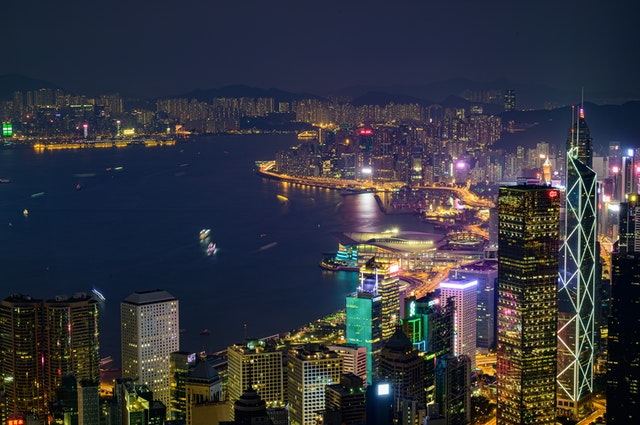
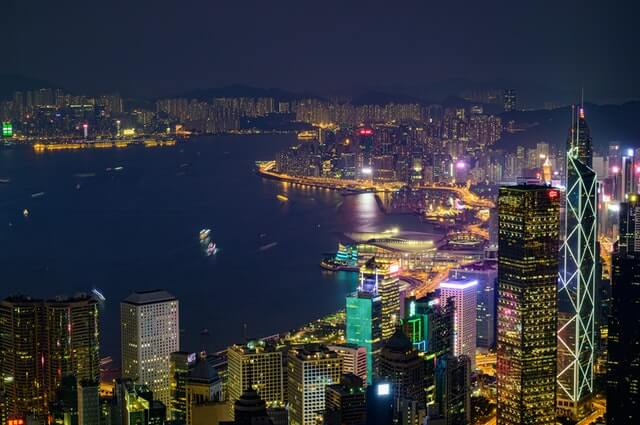
Changed background image

diff --git a/index.html b/index.html
@@ -50,6 +50,17 @@
         </div>
 
         <div class="images">
+            <div class="showcase-image">
+                <img src="static/images/image-13.jpeg">
+            </div>
+
+            <div class="title">
+                <h2><span class="first-word">Traveling</span> Around The World Without Any Frustration & Painless.</h2>
+                <p class="subtitle">No matter which part of the world you want to go, ready to help you Immerse yourself
+                    in a variety of cultures and exotic lifestyles. Plan and book your perfect trip with expert advice,
+                    travel tips, destination information.</p>
+            </div>
+
             <div id="image-1">
                 <div class="container">
                     <div class="frosted-card">
@@ -113,11 +124,9 @@
                         <div class="card-data">
                             <img src="static/images/bali-1.jpg">
                             <div class="package-info">
-                                <h3>Bali</h3>
-                                <h3>
-                                    <i class="fas fa-dollar-sign"></i>
-                                    1100
-                                </h3>
+                                <h3>Bali | <i class="fas fa-dollar-sign"></i>
+                                    1100</h3>
+                                <button type="submit">Book Now</button>
                             </div>
                         </div>
                     </div>
@@ -126,11 +135,9 @@
                         <div class="card-data">
                             <img src="static/images/thailand.jpg">
                             <div class="package-info">
-                                <h3>Pattaya</h3>
-                                <h3>
-                                    <i class="fas fa-dollar-sign"></i>
-                                    900
-                                </h3>
+                                <h3>Pattaya | <i class="fas fa-dollar-sign"></i>
+                                    900</h3>
+                                <button type="submit">Book Now</button>
                             </div>
                         </div>
                     </div>
@@ -139,11 +146,9 @@
                         <div class="card-data">
                             <img src="static/images/hong_kong.jpg">
                             <div class="package-info">
-                                <h3>Hong Kong</h3>
-                                <h3>
-                                    <i class="fas fa-dollar-sign"></i>
-                                    1700
-                                </h3>
+                                <h3>Hong Kong | <i class="fas fa-dollar-sign"></i>
+                                    1700</h3>
+                                <button type="submit">Book Now</button>
                             </div>
                         </div>
                     </div>
@@ -152,11 +157,9 @@
                         <div class="card-data">
                             <img src="static/images/venice.jpg">
                             <div class="package-info">
-                                <h3>Venice</h3>
-                                <h3>
-                                    <i class="fas fa-dollar-sign"></i>
-                                    2300
-                                </h3>
+                                <h3>Venice | <i class="fas fa-dollar-sign"></i>
+                                    2300</h3>
+                                <button type="submit">Book Now</button>
                             </div>
                         </div>
                     </div>
@@ -165,11 +168,9 @@
                         <div class="card-data">
                             <img src="static/images/agra.jpg">
                             <div class="package-info">
-                                <h3>Agra</h3>
-                                <h3>
-                                    <i class="fas fa-dollar-sign"></i>
-                                    1500
-                                </h3>
+                                <h3>Agra | <i class="fas fa-dollar-sign"></i>
+                                    1500</h3>
+                                <button type="submit">Book Now</button>
                             </div>
                         </div>
                     </div>
@@ -178,11 +179,9 @@
                         <div class="card-data">
                             <img src="static/images/paris.jpg">
                             <div class="package-info">
-                                <h3>Paris</h3>
-                                <h3>
-                                    <i class="fas fa-dollar-sign"></i>
-                                    2500
-                                </h3>
+                                <h3>Paris | <i class="fas fa-dollar-sign"></i>
+                                    2500</h3>
+                                <button type="submit">Book Now</button>
                             </div>
                         </div>
                     </div>
@@ -252,7 +251,7 @@
         <footer>
             <div class="container">
                 <div class="frosted-card">
-                    <h1>Copyright 2021 AZ Tourisms</h1>
+                    <h1>Copyright&copy; 2021 AZ Tourisms</h1>
                     <h3>Made with <i class="fas fa-heart"></i> by Vipul Gupta</h3>
                 </div>
             </div>

diff --git a/static/css/style.css b/static/css/style.css
@@ -1,10 +1,11 @@
 @import url("https://fonts.googleapis.com/css2?family=Nova+Flat&display=swap");
+@import url('https://fonts.googleapis.com/css2?family=Dancing+Script:wght@700&family=Dela+Gothic+One&family=Ubuntu:wght@300;400;700&display=swap');
 
 * {
   margin: 0;
   padding: 0;
   box-sizing: border-box;
-  font-family: "Nova Flat", cursive;
+  font-family: "Ubuntu", sans-serif;
   line-height: 1.6;
 }
 
@@ -173,8 +174,39 @@ nav a:visited {
   overflow-y: hidden;
 }
 
+.title {
+  position: absolute;
+  top: 20vh;
+  width: 100%;
+  display: flex;
+  justify-content: center;
+  flex-direction: column;
+  align-items: center;
+}
+
+.title h2 {
+  font-size: 48px;
+  color: #ffffff;
+  width: 60%;
+  text-align: center;
+  font-family: "Dancing Script", cursive;
+}
+
+.first-word {
+  color: #537d7f;
+  font-family: "Dancing Script", cursive;
+}
+
+.subtitle {
+  width: 40%;
+  color: #fff;
+  text-align: center;
+  margin-top: 30px;
+  font-size: 18px;
+}
+
 #image-1 {
-  background: url("../images/image-12.jpeg") no-repeat center/cover;
+  /* background: url("../images/image-13.jpeg") no-repeat center/cover; */
   width: 100%;
   height: 100vh;
   position: relative;
@@ -185,6 +217,36 @@ nav a:visited {
 
   color: #ffffff;
   line-height: 1.6;
+  /* transition: transform zoom 2s ease-in-out infinite; */
+  /* animation: zoom 10s linear 2s infinite alternate; */
+}
+
+@keyframes zoom {
+  0% {
+    transform: scale(1);
+  }
+  50% {
+    transform: scale(1.025);
+  }
+  100% {
+    transform: scale(1.05);
+  }
+}
+
+.showcase-image {
+  position: absolute;
+  right: 0;
+  bottom: 0;
+  z-index: -1;
+  width: 100%;
+  height: 100vh;
+  overflow: hidden;
+}
+
+.showcase-image img {
+  width: 100%;
+  height: 100vh;
+  animation: zoom 5s linear 1s infinite alternate;
 }
 
 #image-1 .container {
@@ -229,6 +291,37 @@ nav a:visited {
   box-shadow: 0 8px 32px 0 rgba(31, 38, 135, 0.37);
   backdrop-filter: blur(6px);
   -webkit-backdrop-filter: blur(6px);
+}
+
+.card-data {
+  display: flex;
+  flex-direction: column;
+  justify-content: space-between;
+  height: 100%;
+}
+
+.package-info {
+  display: flex;
+  flex-direction: column;
+  align-items: center;
+  justify-content: space-between;
+}
+
+.package-info button {
+  height: 50px;
+  border-radius: 10px;
+  padding: 5px;
+  background-color: #537d7f;
+  min-width: 100px;
+  border: 0;
+  color: #ffffff;
+  width: 100%;
+  margin-top: 20px;
+}
+
+.package-info button:hover {
+  opacity: 0.5;
+  cursor: pointer;
 }
 
 /* Search */
@@ -396,7 +489,7 @@ nav a:visited {
 }
 
 .section-services .container {
-  padding: 2rem;
+  padding: 50px;
 }
 
 .section-content {
@@ -439,6 +532,7 @@ nav a:visited {
 .section-services-cards .frosted-card:nth-child(1) img {
   width: 100%;
   border-radius: 10px;
+  margin: auto;
 }
 
 .section-services-cards .frosted-card:nth-child(1) img:hover {
@@ -570,5 +664,15 @@ footer h3 {
 
   .inactive {
     backdrop-filter: none;
+  }
+
+  .title {
+    display: none;
+  }
+
+  .showcase-image img {
+    width: auto;
+    position: absolute;
+    left: -450px;
   }
 }
